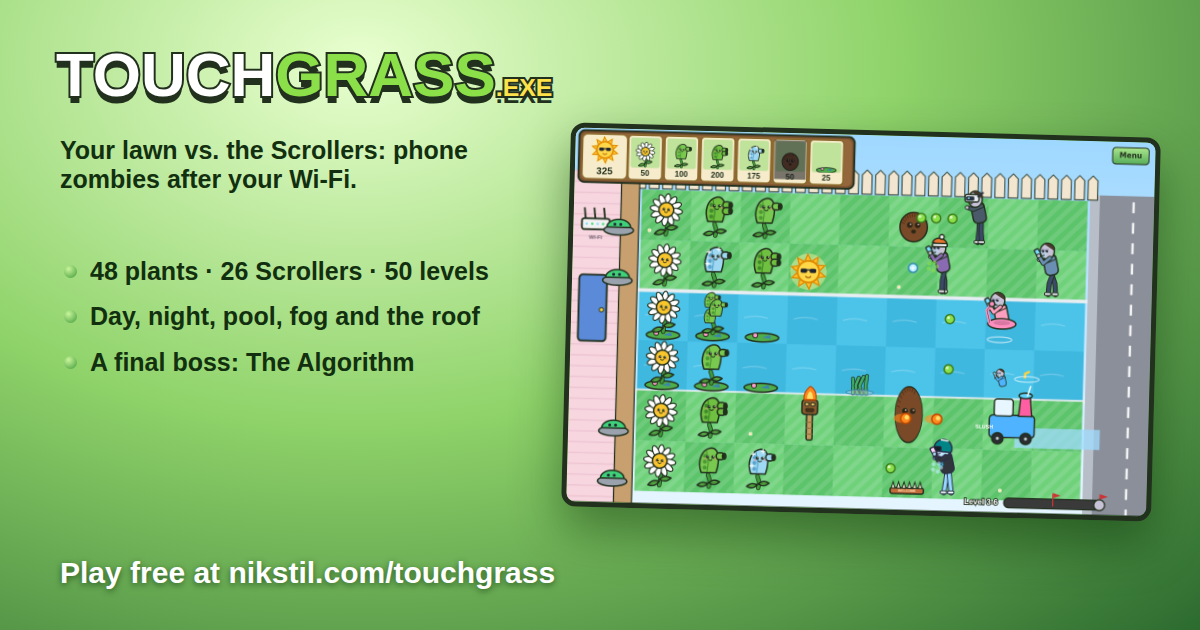
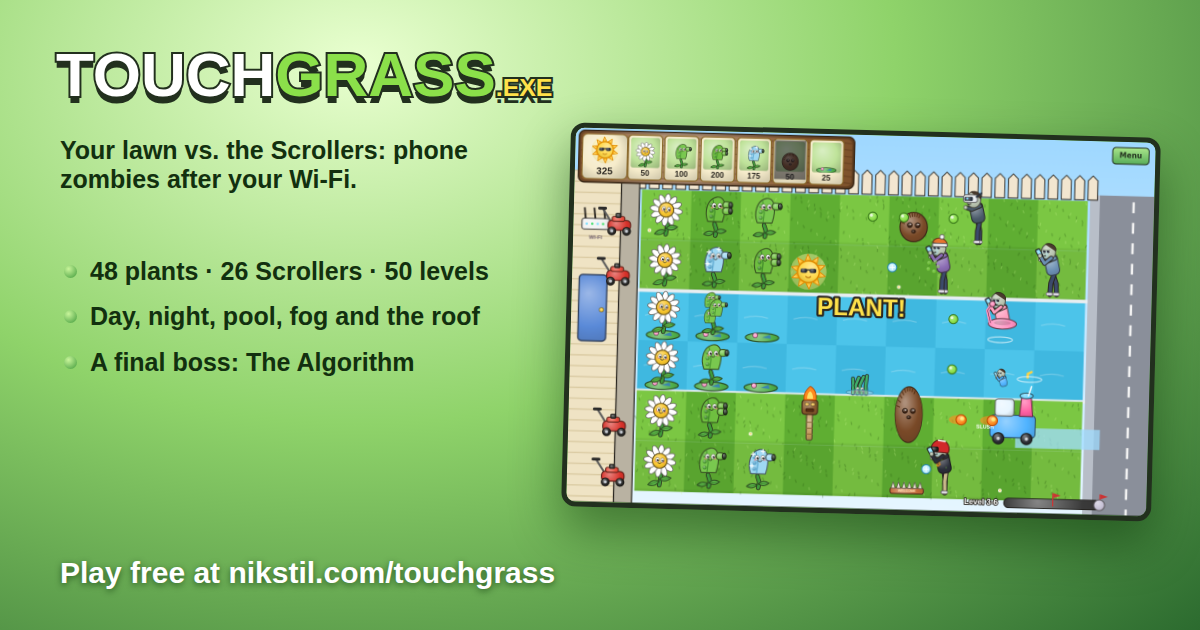
TOUCHGRASS: the look of a reskinned lawn-defense classic
- Soft cartoon shading and outlines in a darker shade of each colour.
- Big white cartoon eyes on the plants; greyer skin on the Scrollers.
- The striped lawn with grass texture, a cream house and stone porch.
- Red push mowers, a woodgrain seed bank, red READY… SET… PLANT!
- The title screen is a back yard with wooden-sign buttons.

The characters stay our own designs (no copied art).

Claude-Session: https://claude.ai/code/session_01F27FsK6TNU3iDQhCqJiFUa

Changed region(s): [[0.4625, 0.181, 0.925, 0.8143], [0.7708, 0.573, 0.8017, 0.6032]]

diff --git a/touchgrass/art.js b/touchgrass/art.js
@@ -1,44 +1,72 @@
-// TOUCHGRASS.EXE: the art. Every plant and Scroller is drawn with canvas paths: flat colours,
-// a thick dark outline, little dot eyes. Nothing is an image file.
+// TOUCHGRASS.EXE: the art. Every plant and Scroller is drawn with canvas paths in a soft-shaded
+// cartoon style. Nothing is an image file.
 //
 // Plants are drawn standing on (0, 0), the middle of the bottom of their tile, about 80 units
 // tall; Scrollers stand on (0, 0) facing left, about 120 units tall. The caller scales.
 
-export const INK = '#22301e'
+export const INK = '#2a2620'
 const TAU = Math.PI * 2
 
 // ================= Little helpers =================
-function path(ctx, fill, stroke = INK, width = 3) {
+// The look: soft cartoon shading (a light top-left, a darker bottom-right) and outlines in a
+// dark shade of each colour rather than flat black.
+function rgb(hex) {
+  if (typeof hex !== 'string' || hex[0] !== '#') return null
+  let h = hex.slice(1)
+  if (h.length === 3 || h.length === 4) h = [...h].map((c) => c + c).join('')
+  const n = parseInt(h.slice(0, 6), 16)
+  return [(n >> 16) & 255, (n >> 8) & 255, n & 255]
+}
+function mix(hex, to, k) {
+  const c = rgb(hex)
+  if (!c) return hex
+  const t = to === 'white' ? [255, 255, 255] : [20, 16, 12]
+  return `rgb(${c.map((v, i) => Math.round(v + (t[i] - v) * k)).join(',')})`
+}
+export const darken = (hex, k = 0.45) => mix(hex, 'black', k)
+export const lighten = (hex, k = 0.35) => mix(hex, 'white', k)
+function path(ctx, fill, stroke = INK, width = 3, box = null) {
   if (fill) {
-    ctx.fillStyle = fill
+    if (box && rgb(fill)) {
+      const [x, y, w, h] = box
+      const g = ctx.createRadialGradient(x + w * 0.35, y + h * 0.28, Math.min(w, h) * 0.05, x + w * 0.45, y + h * 0.45, Math.max(w, h) * 0.75)
+      g.addColorStop(0, lighten(fill, 0.38))
+      g.addColorStop(0.55, fill)
+      g.addColorStop(1, darken(fill, 0.22))
+      ctx.fillStyle = g
+    } else ctx.fillStyle = fill
     ctx.fill()
   }
   if (stroke) {
-    ctx.lineWidth = width
-    ctx.strokeStyle = stroke
+    ctx.lineWidth = width * 0.72
+    ctx.lineJoin = 'round'
+    ctx.strokeStyle = stroke === INK && rgb(fill) ? darken(fill, 0.62) : stroke
     ctx.stroke()
   }
 }
 export function circle(ctx, x, y, r, fill, stroke = INK, width = 3) {
   ctx.beginPath()
   ctx.arc(x, y, r, 0, TAU)
-  path(ctx, fill, stroke, width)
+  path(ctx, fill, stroke, width, r > 3 ? [x - r, y - r, 2 * r, 2 * r] : null)
 }
 function ellipse(ctx, x, y, rx, ry, fill, stroke = INK, width = 3, rot = 0) {
   ctx.beginPath()
   ctx.ellipse(x, y, Math.max(0.1, rx), Math.max(0.1, ry), rot, 0, TAU)
-  path(ctx, fill, stroke, width)
+  path(ctx, fill, stroke, width, rx > 3 ? [x - rx, y - ry, 2 * rx, 2 * ry] : null)
 }
 export function rr(ctx, x, y, w, h, r, fill, stroke = INK, width = 3) {
   ctx.beginPath()
   ctx.roundRect(x, y, w, h, r)
-  path(ctx, fill, stroke, width)
+  path(ctx, fill, stroke, width, w > 6 && h > 6 ? [x, y, w, h] : null)
 }
 function poly(ctx, pts, fill, stroke = INK, width = 3) {
   ctx.beginPath()
   pts.forEach(([x, y], i) => (i ? ctx.lineTo(x, y) : ctx.moveTo(x, y)))
   ctx.closePath()
-  path(ctx, fill, stroke, width)
+  const xs = pts.map((p) => p[0])
+  const ys = pts.map((p) => p[1])
+  const box = [Math.min(...xs), Math.min(...ys), Math.max(...xs) - Math.min(...xs), Math.max(...ys) - Math.min(...ys)]
+  path(ctx, fill, stroke, width, box[2] > 6 && box[3] > 6 ? box : null)
 }
 function line(ctx, pts, stroke = INK, width = 3) {
   ctx.beginPath()
@@ -81,9 +109,17 @@ function face(ctx, x, y, s = 1, mood = 'happy', look = 0) {
       [11, 0],
     ], INK, 2.4)
   } else {
-    for (const ex of [-6, 6]) {
-      circle(ctx, ex + look, 0, 3.6, INK, null)
-      circle(ctx, ex + look + 1.2, -1.3, 1.2, '#fff', null)
+    // big cartoon eyes: white, with a pupil and a shine
+    for (const ex of [-6.5, 6.5]) {
+      ctx.beginPath()
+      ctx.ellipse(ex + look * 0.5, -1, 4.6, 5.6, 0, 0, TAU)
+      ctx.fillStyle = '#fff'
+      ctx.fill()
+      ctx.lineWidth = 1.4
+      ctx.strokeStyle = 'rgba(40,30,20,.55)'
+      ctx.stroke()
+      circle(ctx, ex + look + 1.2, 0, 2.6, '#1c1a16', null)
+      circle(ctx, ex + look + 1.9, -1.1, 0.9, '#fff', null)
     }
     if (mood === 'angry') {
       line(ctx, [
@@ -1022,8 +1058,8 @@ function lobber(ctx, t, a, color, ammo, big = false) {
 }
 
 // ================= Scrollers =================
-const SKIN = '#c7c2d6'
-const SKIN_DARK = '#9e98b3'
+const SKIN = '#b9c4b0'
+const SKIN_DARK = '#8d9a86'
 /**
  * A Scroller: a hunched person staring at a phone. o: { shirt, pants, hat(ctx), front(ctx),
  * back(ctx), eat, walk (0..1 cycle), noPhone, scale, bodyless (legs hidden) }
@@ -2016,21 +2052,26 @@ export function drawMower(ctx, kind, t, running) {
     circle(ctx, 0, -28, 6, '#ff4d4d', INK, 2)
     return
   }
-  // a robo-mower: a round robot with a blade skirt
-  ellipse(ctx, 0, -8, 30, 10, '#9aa3ad')
-  if (running) for (let i = 0; i < 8; i++) {
-    const ang = t * 30 + i
-    line(ctx, [
-      [Math.cos(ang) * 26, -8 + Math.sin(ang) * 6],
-      [Math.cos(ang) * 32, -8 + Math.sin(ang) * 8],
-    ], '#e8e2d6', 2)
+  // a red push mower
+  const shake = running ? Math.sin(t * 60) * 1.2 : 0
+  ctx.save()
+  ctx.translate(0, shake)
+  line(ctx, [
+    [-14, -22],
+    [-34, -52],
+  ], '#5a5a5a', 4)
+  line(ctx, [
+    [-40, -52],
+    [-28, -52],
+  ], '#2a2a2a', 6)
+  rr(ctx, -22, -28, 46, 20, 8, '#d8322a')
+  rr(ctx, -14, -36, 26, 10, 4, '#e84a3a')
+  rr(ctx, -6, -42, 10, 8, 2, '#3a3a3a')
+  for (const wx of [-14, 16]) {
+    circle(ctx, wx, -6, 8, '#2a2a2a')
+    circle(ctx, wx, -6, 3, '#c9ced6', null)
   }
-  ctx.beginPath()
-  ctx.ellipse(0, -14, 24, 16, 0, Math.PI, 0)
-  ctx.closePath()
-  path(ctx, '#3fd17a')
-  circle(ctx, -8, -20, 3, running ? '#ff4d4d' : '#22252e', null)
-  circle(ctx, 4, -20, 3, running ? '#ff4d4d' : '#22252e', null)
+  ctx.restore()
 }
 export function drawRake(ctx) {
   line(ctx, [

diff --git a/touchgrass/draw.js b/touchgrass/draw.js
@@ -36,6 +36,11 @@ export function beltRect(i, item) {
 }
 
 // ================= Backgrounds =================
+function shade(hex, k) {
+  const n = parseInt(hex.slice(1), 16)
+  const f = (v) => Math.max(0, Math.min(255, Math.round(v + (k < 0 ? v * k : (255 - v) * k))))
+  return `rgb(${f((n >> 16) & 255)},${f((n >> 8) & 255)},${f(n & 255)})`
+}
 const bgCache = new Map()
 function background(g) {
   const key = `${g.level.area}:${g.rows}:${(g.sod ?? []).join('')}:${g.special}`
@@ -102,23 +107,26 @@ function paintBackground(ctx, g) {
         for (let i = 0; i < 6; i++) ctx.fillRect(x + ((i * 37) % L.tw), y + ((i * 53) % L.th), 6, 3)
         continue
       }
-      const even = (r + col) % 2 === 0
-      ctx.fillStyle = night ? (even ? '#1f4a33' : '#24563b') : even ? '#5cc46a' : '#6fd27b'
+      // the classic striped lawn: columns alternate light and dark, rows shift a little
+      const lightCol = col % 2 === 0
+      const base = night ? (lightCol ? '#2f6a3c' : '#275a33') : lightCol ? '#7bc743' : '#5fae32'
+      ctx.fillStyle = r % 2 ? shade(base, -0.06) : base
       ctx.fillRect(x, y, L.tw, L.th)
-      // mowing stripes
-      ctx.save()
-      ctx.beginPath()
-      ctx.rect(x, y, L.tw, L.th)
-      ctx.clip()
-      ctx.strokeStyle = night ? 'rgba(255,255,255,.04)' : 'rgba(255,255,255,.12)'
-      ctx.lineWidth = 8
-      for (let k = -L.th; k < L.tw; k += 22) {
+      // grass texture: little blades in lighter and darker greens
+      for (let i = 0; i < 26; i++) {
+        const seed = (r * 131 + col * 71 + i * 37) % 997
+        const bx = x + ((seed * 13) % L.tw)
+        const by = y + ((seed * 29) % Math.floor(L.th))
+        ctx.strokeStyle = i % 3 ? (night ? 'rgba(10,30,15,.35)' : 'rgba(40,90,20,.35)') : night ? 'rgba(120,180,130,.18)' : 'rgba(210,255,150,.35)'
+        ctx.lineWidth = 1.5
         ctx.beginPath()
-        ctx.moveTo(x + k, y + L.th)
-        ctx.lineTo(x + k + L.th, y)
+        ctx.moveTo(bx, by + 5)
+        ctx.lineTo(bx + ((seed % 5) - 2), by)
         ctx.stroke()
       }
-      ctx.restore()
+      // soft shading at the tile edges
+      ctx.fillStyle = 'rgba(0,0,0,.05)'
+      ctx.fillRect(x, y + L.th - 4, L.tw, 4)
       // a daisy now and then
       if ((r * 7 + col * 13) % 9 === 0) {
         circle(ctx, x + 14 + ((col * 31) % 50), y + L.th - 16, 3, night ? '#9aa' : '#fff', null)
@@ -166,12 +174,12 @@ function paintBackground(ctx, g) {
 function paintHouse(ctx, g, L) {
   const night = g.area.night
   // a pastel house wall with a door, and the Wi-Fi router everyone's after
-  ctx.fillStyle = night ? '#4a4060' : '#f7d6e0'
+  ctx.fillStyle = night ? '#4a4a5a' : '#efe3c4'
   ctx.fillRect(0, L.y0 - 30, L.x0 - 34, H)
-  ctx.fillStyle = night ? '#3a3050' : '#eec4d2'
+  ctx.fillStyle = night ? '#3a3a4a' : '#d9c9a0'
   for (let y = L.y0 - 30; y < H; y += 18) ctx.fillRect(0, y, L.x0 - 34, 2)
-  // porch
-  ctx.fillStyle = night ? '#5a4a3a' : '#c8a070'
+  // a stone porch
+  ctx.fillStyle = night ? '#4a4a4a' : '#b9b2a2'
   ctx.fillRect(L.x0 - 34, L.y0 - 30, 30, H)
   ctx.strokeStyle = INK
   ctx.lineWidth = 2
@@ -850,8 +858,23 @@ export function drawPacket(ctx, id, x, y, w, h, { cost = null, ready = 1, afford
 function drawBank(ctx, g, ui) {
   const n = g.belt ? 10 : Math.max(6, g.seeds.length)
   const width = BANK.seedX + n * (BANK.seedW + BANK.seedGap) + (ui.shovel ? BANK.shovelW + 16 : 8)
-  rr(ctx, BANK.x, BANK.y, width, BANK.h, 10, '#7a5230', INK, 3)
-  rr(ctx, BANK.x + 4, BANK.y + 4, width - 8, BANK.h - 8, 8, '#93663c', null)
+  rr(ctx, BANK.x, BANK.y, width, BANK.h, 10, '#6b4423', INK, 3)
+  rr(ctx, BANK.x + 4, BANK.y + 4, width - 8, BANK.h - 8, 8, '#8a5a30', null)
+  // wood grain
+  ctx.save()
+  ctx.beginPath()
+  ctx.roundRect(BANK.x + 4, BANK.y + 4, width - 8, BANK.h - 8, 8)
+  ctx.clip()
+  ctx.strokeStyle = 'rgba(60,30,10,.25)'
+  ctx.lineWidth = 2
+  for (let i = 0; i < 7; i++) {
+    const yy = BANK.y + 10 + i * 11
+    ctx.beginPath()
+    ctx.moveTo(BANK.x, yy)
+    for (let x = BANK.x; x < BANK.x + width; x += 40) ctx.quadraticCurveTo(x + 20, yy + ((i + x / 40) % 2 ? 3 : -3), x + 40, yy)
+    ctx.stroke()
+  }
+  ctx.restore()
   // the sun counter (no sun on belt levels)
   if (!g.belt) {
     rr(ctx, BANK.x + 6, BANK.y + 6, BANK.sunW, BANK.h - 12, 8, '#f6eccb', '#8a6a2a', 2)
@@ -938,7 +961,7 @@ function drawBanners(ctx, g, ui) {
   const text = []
   if (g.phase === 'intro') {
     const k = g.introLeft
-    text.push({ text: k > 1.7 ? 'READY…' : k > 0.8 ? 'SET…' : 'PLANT!', kind: k > 0.8 ? 'info' : 'go', size: 54 })
+    text.push({ text: k > 1.7 ? 'READY…' : k > 0.8 ? 'SET…' : 'PLANT!', kind: 'huge', size: k > 0.8 ? 54 : 66 })
   }
   for (const b of ui.banners ?? []) text.push({ ...b, size: b.kind === 'final' ? 64 : b.kind === 'huge' ? 30 : 40 })
   let y = H / 2 - 10
@@ -954,7 +977,7 @@ function drawBanners(ctx, g, ui) {
     ctx.textAlign = 'center'
     ctx.lineWidth = 7
     ctx.strokeStyle = INK
-    ctx.fillStyle = b.kind === 'huge' || b.kind === 'final' ? '#ff4040' : b.kind === 'go' ? '#ffe14a' : '#fff'
+    ctx.fillStyle = b.kind === 'huge' || b.kind === 'final' ? '#e8261b' : b.kind === 'go' ? '#ffe14a' : '#fff'
     ctx.strokeText(b.text, W / 2, y)
     ctx.fillText(b.text, W / 2, y)
     ctx.restore()

diff --git a/touchgrass/style.css b/touchgrass/style.css
@@ -88,8 +88,13 @@ button { font: inherit; cursor: pointer; color: inherit; }
   overflow: auto;
 }
 .overlay.title {
-  background: radial-gradient(ellipse at 50% 35%, rgba(255, 255, 220, .9), rgba(140, 210, 120, .92) 60%, rgba(60, 130, 60, .95));
+  /* a back yard at dusk: sky, a fence, the lawn */
+  background:
+    linear-gradient(transparent 62%, rgba(0, 0, 0, .12) 62.5%, transparent 63%),
+    repeating-linear-gradient(90deg, transparent 0 34px, rgba(80, 50, 20, .25) 34px 36px) 0 52% / 100% 12% no-repeat,
+    linear-gradient(#ffb35a 0%, #ffd98a 30%, #cfe9a8 50%, #5fae32 62%, #4a9a2a 100%);
 }
+.overlay.title > * { position: relative; }
 .logo {
   font: 900 clamp(34px, 8vw, 84px)/1 Impact, "Arial Black", sans-serif;
   color: #fff;
@@ -101,7 +106,25 @@ button { font: inherit; cursor: pointer; color: inherit; }
 .logo span { color: #8be04a; }
 .logo small { font-size: .4em; color: #ffe14a; }
 .tag { font-size: clamp(13px, 1.8vw, 18px); font-weight: 600; }
-.title-buttons { display: grid; grid-template-columns: repeat(2, minmax(0, 220px)); gap: 10px; }
+.title-buttons { display: grid; grid-template-columns: repeat(2, minmax(0, 220px)); gap: 12px; }
+/* the menu as wooden signs on posts */
+.title-buttons .btn {
+  position: relative;
+  border: 3px solid #3a2410;
+  border-radius: 8px;
+  color: #fff3d0;
+  text-shadow: 0 2px 0 #3a2410;
+  background:
+    repeating-linear-gradient(0deg, rgba(0, 0, 0, .08) 0 3px, transparent 3px 9px),
+    linear-gradient(#b07a44, #8a5a2c);
+  box-shadow: 0 4px 0 #3a2410, inset 0 2px 0 rgba(255, 255, 255, .25);
+}
+.title-buttons .btn:hover { background: repeating-linear-gradient(0deg, rgba(0, 0, 0, .08) 0 3px, transparent 3px 9px), linear-gradient(#c48a50, #9a6634); }
+.title-buttons .btn:disabled { filter: grayscale(.6); }
+.title-buttons .btn.go { color: #fffbe0; background: repeating-linear-gradient(0deg, rgba(0, 0, 0, .08) 0 3px, transparent 3px 9px), linear-gradient(#7cc443, #4f9a2a); }
+.title-buttons .btn::before, .title-buttons .btn::after { content: ""; position: absolute; top: 100%; width: 8px; height: 14px; background: #6b4423; border: 2px solid #3a2410; border-top: 0; }
+.title-buttons .btn::before { left: 18%; }
+.title-buttons .btn::after { right: 18%; }
 .title-buttons .big { grid-column: span 2; }
 .wallet { font-weight: 700; }
 .fine { font-size: 12px; opacity: .75; max-width: 520px; }
